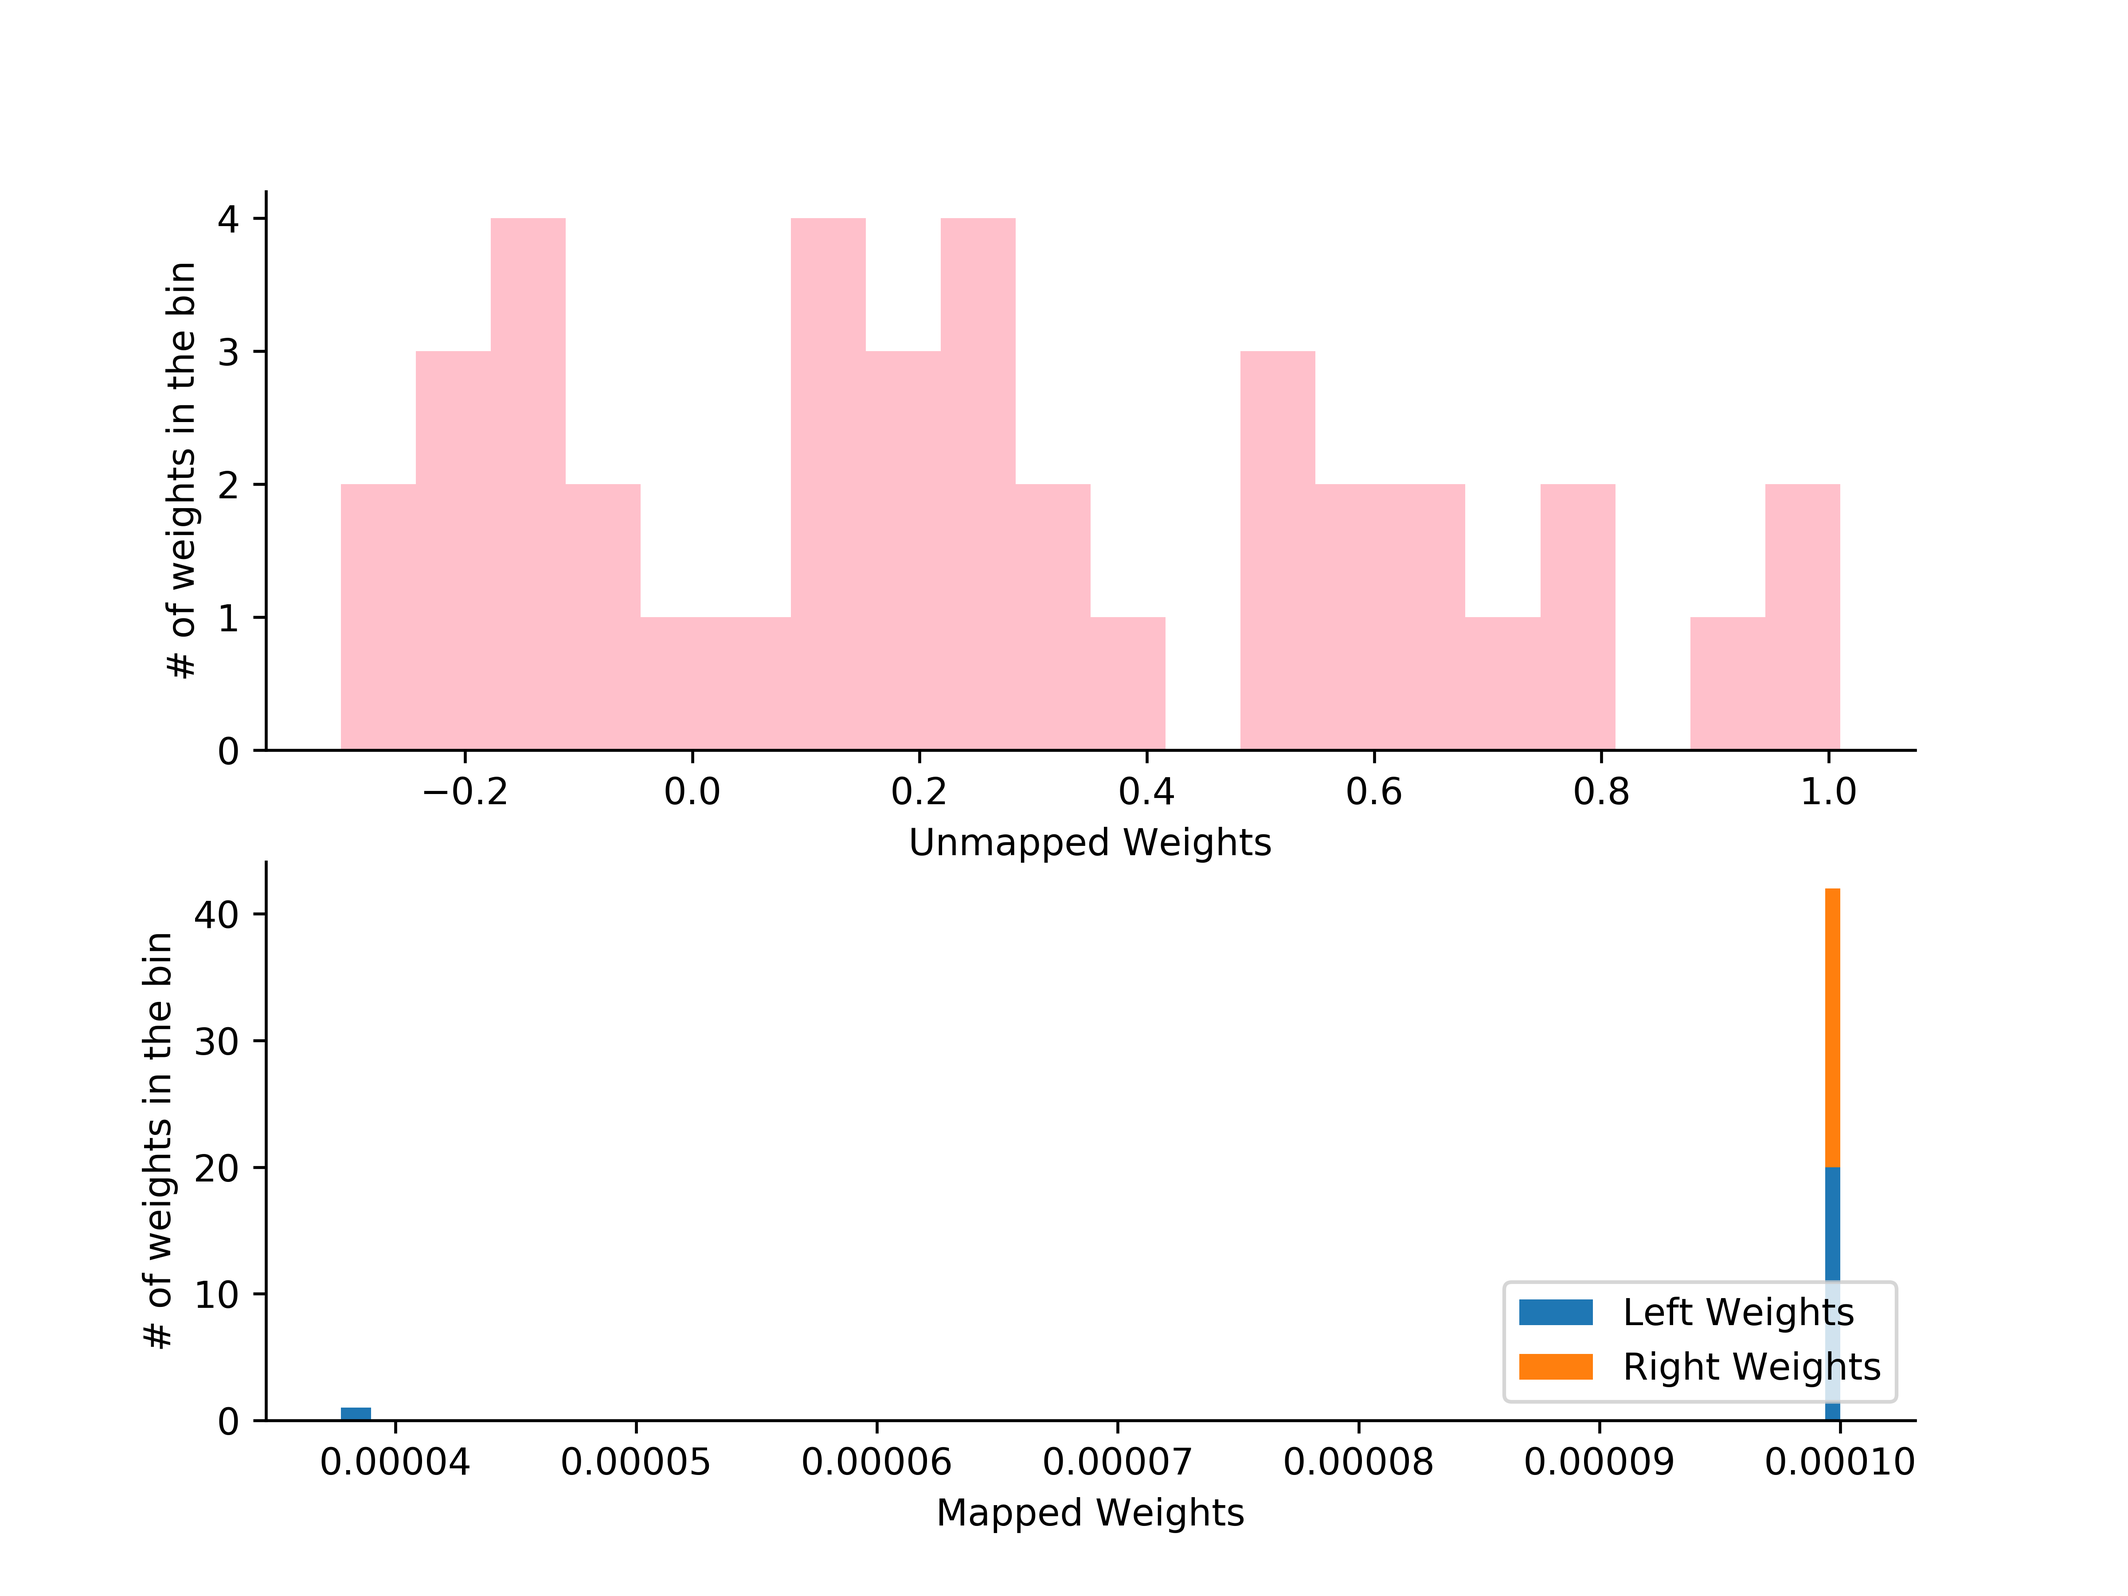
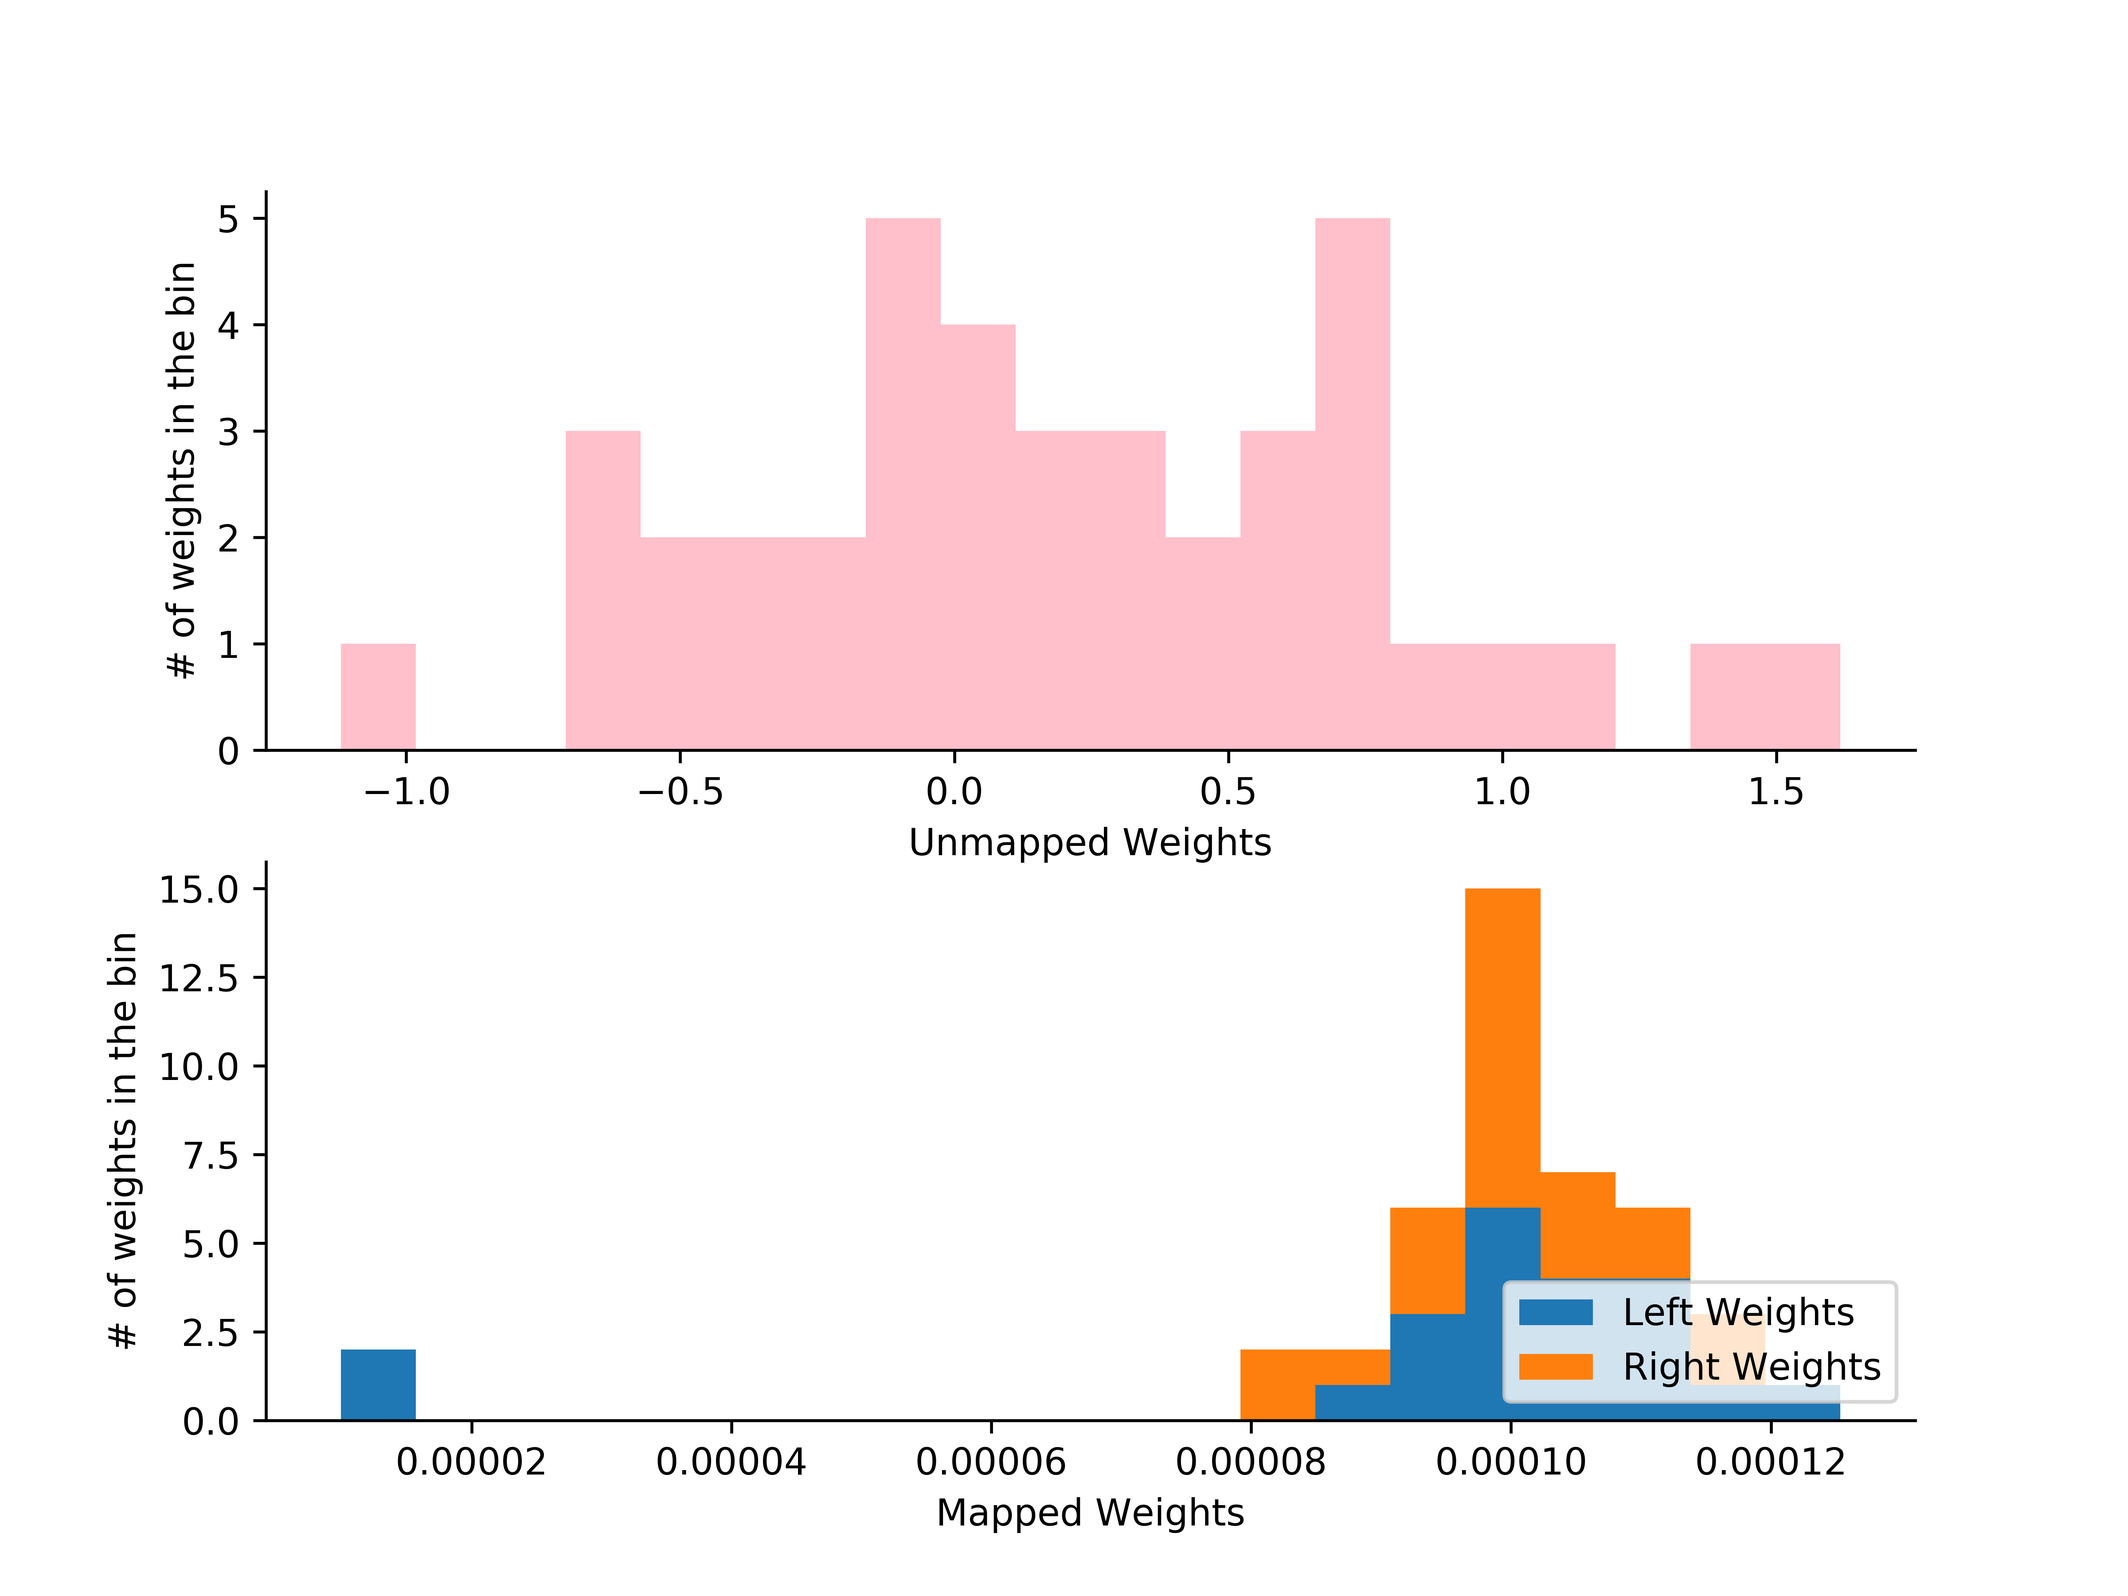
Updated Graphs

diff --git a/latent_ode_test.py b/latent_ode_test.py
@@ -1,0 +1,336 @@
+import os
+import argparse
+import logging
+import time
+import numpy as np
+import numpy.random as npr
+import matplotlib
+matplotlib.use('agg')
+import matplotlib.pyplot as plt
+import torch
+import torch.nn as nn
+import torch.optim as optim
+import torch.nn.functional as F
+
+
+parser = argparse.ArgumentParser()
+parser.add_argument('--adjoint', type=eval, default=False)
+parser.add_argument('--visualize', type=eval, default=True)
+parser.add_argument('--niters', type=int, default=2000)
+parser.add_argument('--lr', type=float, default=0.01)
+parser.add_argument('--gpu', type=int, default=0)
+parser.add_argument('--train_dir', type=str, default=None)
+args = parser.parse_args()
+
+if args.adjoint:
+    from torchdiffeq import odeint_adjoint as odeint
+else:
+    from torchdiffeq import odeint
+
+
+def generate_spiral2d(nspiral=1000,
+                      ntotal=500,
+                      nsample=100,
+                      start=0.,
+                      stop=1,  # approximately equal to 6pi
+                      noise_std=.1,
+                      a=0.,
+                      b=1.,
+                      savefig=True):
+    """Parametric formula for 2d spiral is `r = a + b * theta`.
+    Args:
+      nspiral: number of spirals, i.e. batch dimension
+      ntotal: total number of datapoints per spiral
+      nsample: number of sampled datapoints for model fitting per spiral
+      start: spiral starting theta value
+      stop: spiral ending theta value
+      noise_std: observation noise standard deviation
+      a, b: parameters of the Archimedean spiral
+      savefig: plot the ground truth for sanity check
+    Returns: 
+      Tuple where first element is true trajectory of size (nspiral, ntotal, 2),
+      second element is noisy observations of size (nspiral, nsample, 2),
+      third element is timestamps of size (ntotal,),
+      and fourth element is timestamps of size (nsample,)
+    """
+
+    # add 1 all timestamps to avoid division by 0
+    orig_ts = np.linspace(start, stop, num=ntotal)
+    samp_ts = orig_ts[:nsample]
+
+    # generate clock-wise and counter clock-wise spirals in observation space
+    # with two sets of time-invariant latent dynamics
+    zs_cw = stop + 1. - orig_ts
+    rs_cw = a + b * 50. / zs_cw
+    xs, ys = rs_cw * np.cos(zs_cw) - 5., rs_cw * np.sin(zs_cw)
+    orig_traj_cw = np.stack((xs, ys), axis=1)
+
+    zs_cc = orig_ts
+    rw_cc = a + b * zs_cc
+    xs, ys = rw_cc * np.cos(zs_cc) + 5., rw_cc * np.sin(zs_cc)
+    orig_traj_cc = np.stack((xs, ys), axis=1)
+
+    if savefig:
+        plt.figure()
+        plt.plot(orig_traj_cw[:, 0], orig_traj_cw[:, 1], label='clock')
+        plt.plot(orig_traj_cc[:, 0], orig_traj_cc[:, 1], label='counter clock')
+        plt.legend()
+        plt.savefig('./ground_truth.png', dpi=500)
+        print('Saved ground truth spiral at {}'.format('./ground_truth.png'))
+
+    # sample starting timestamps
+    orig_trajs = []
+    samp_trajs = []
+    for _ in range(nspiral):
+        # don't sample t0 very near the start or the end
+        t0_idx = npr.multinomial(
+            1, [1. / (ntotal - 2. * nsample)] * (ntotal - int(2 * nsample)))
+        t0_idx = np.argmax(t0_idx) + nsample
+
+        cc = bool(npr.rand() > .5)  # uniformly select rotation
+        orig_traj = orig_traj_cc if cc else orig_traj_cw
+        orig_trajs.append(orig_traj)
+
+        samp_traj = orig_traj[t0_idx:t0_idx + nsample, :].copy()
+        samp_traj += npr.randn(*samp_traj.shape) * noise_std
+        samp_trajs.append(samp_traj)
+
+    # batching for sample trajectories is good for RNN; batching for original
+    # trajectories only for ease of indexing
+    orig_trajs = np.stack(orig_trajs, axis=0)
+    samp_trajs = np.stack(samp_trajs, axis=0)
+
+    return orig_trajs, samp_trajs, orig_ts, samp_ts
+
+
+class LatentODEfunc(nn.Module):
+
+    def __init__(self, latent_dim=4, nhidden=20):
+        super(LatentODEfunc, self).__init__()
+        self.elu = nn.ELU(inplace=True)
+        self.fc1 = nn.Linear(latent_dim, nhidden)
+        self.fc2 = nn.Linear(nhidden, nhidden)
+        self.fc3 = nn.Linear(nhidden, latent_dim)
+        self.nfe = 0
+
+    def forward(self, t, x):
+        self.nfe += 1
+        out = self.fc1(x)
+        out = self.elu(out)
+        out = self.fc2(out)
+        out = self.elu(out)
+        out = self.fc3(out)
+        return out
+
+
+class RecognitionRNN(nn.Module):
+
+    def __init__(self, latent_dim=4, obs_dim=2, nhidden=25, nbatch=1):
+        super(RecognitionRNN, self).__init__()
+        self.nhidden = nhidden
+        self.nbatch = nbatch
+        self.i2h = nn.Linear(obs_dim + nhidden, nhidden)
+        self.h2o = nn.Linear(nhidden, latent_dim * 2)
+
+    def forward(self, x, h):
+        combined = torch.cat((x, h), dim=1)
+        h = torch.tanh(self.i2h(combined))
+        out = self.h2o(h)
+        return out, h
+
+    def initHidden(self):
+        return torch.zeros(self.nbatch, self.nhidden)
+
+
+class Decoder(nn.Module):
+
+    def __init__(self, latent_dim=4, obs_dim=2, nhidden=20):
+        super(Decoder, self).__init__()
+        self.relu = nn.ReLU(inplace=True)
+        self.fc1 = nn.Linear(latent_dim, nhidden)
+        self.fc2 = nn.Linear(nhidden, obs_dim)
+
+    def forward(self, z):
+        out = self.fc1(z)
+        out = self.relu(out)
+        out = self.fc2(out)
+        return out
+
+
+class RunningAverageMeter(object):
+    """Computes and stores the average and current value"""
+
+    def __init__(self, momentum=0.99):
+        self.momentum = momentum
+        self.reset()
+
+    def reset(self):
+        self.val = None
+        self.avg = 0
+
+    def update(self, val):
+        if self.val is None:
+            self.avg = val
+        else:
+            self.avg = self.avg * self.momentum + val * (1 - self.momentum)
+        self.val = val
+
+
+def log_normal_pdf(x, mean, logvar):
+    const = torch.from_numpy(np.array([2. * np.pi])).float().to(x.device)
+    const = torch.log(const)
+    return -.5 * (const + logvar + (x - mean) ** 2. / torch.exp(logvar))
+
+
+def normal_kl(mu1, lv1, mu2, lv2):
+    v1 = torch.exp(lv1)
+    v2 = torch.exp(lv2)
+    lstd1 = lv1 / 2.
+    lstd2 = lv2 / 2.
+
+    kl = lstd2 - lstd1 + ((v1 + (mu1 - mu2) ** 2.) / (2. * v2)) - .5
+    return kl
+
+
+if __name__ == '__main__':
+    latent_dim = 4
+    nhidden = 20
+    rnn_nhidden = 25
+    obs_dim = 2
+    nspiral = 1000
+    start = 0.
+    stop = 6 * np.pi
+    noise_std = .3
+    a = 0.
+    b = .3
+    ntotal = 1000
+    nsample = 100
+    device = torch.device('cuda:' + str(args.gpu)
+                          if torch.cuda.is_available() else 'cpu')
+
+    # generate toy spiral data
+    orig_trajs, samp_trajs, orig_ts, samp_ts = generate_spiral2d(
+        nspiral=nspiral,
+        start=start,
+        stop=stop,
+        noise_std=noise_std,
+        a=a, b=b
+    )
+    orig_trajs = torch.from_numpy(orig_trajs).float().to(device)
+    samp_trajs = torch.from_numpy(samp_trajs).float().to(device)
+    samp_ts = torch.from_numpy(samp_ts).float().to(device)
+
+    # model
+    func = LatentODEfunc(latent_dim, nhidden).to(device)
+    rec = RecognitionRNN(latent_dim, obs_dim, rnn_nhidden, nspiral).to(device)
+    dec = Decoder(latent_dim, obs_dim, nhidden).to(device)
+    params = (list(func.parameters()) + list(dec.parameters()) + list(rec.parameters()))
+    optimizer = optim.Adam(params, lr=args.lr)
+    loss_meter = RunningAverageMeter()
+
+    if args.train_dir is not None:
+        if not os.path.exists(args.train_dir):
+            os.makedirs(args.train_dir)
+        ckpt_path = os.path.join(args.train_dir, 'ckpt.pth')
+        if os.path.exists(ckpt_path):
+            checkpoint = torch.load(ckpt_path)
+            func.load_state_dict(checkpoint['func_state_dict'])
+            rec.load_state_dict(checkpoint['rec_state_dict'])
+            dec.load_state_dict(checkpoint['dec_state_dict'])
+            optimizer.load_state_dict(checkpoint['optimizer_state_dict'])
+            orig_trajs = checkpoint['orig_trajs']
+            samp_trajs = checkpoint['samp_trajs']
+            orig_ts = checkpoint['orig_ts']
+            samp_ts = checkpoint['samp_ts']
+            print('Loaded ckpt from {}'.format(ckpt_path))
+
+    try:
+        for itr in range(1, args.niters + 1):
+            optimizer.zero_grad()
+            # backward in time to infer q(z_0)
+            h = rec.initHidden().to(device)
+            for t in reversed(range(samp_trajs.size(1))):
+                obs = samp_trajs[:, t, :]
+                out, h = rec.forward(obs, h)
+            qz0_mean, qz0_logvar = out[:, :latent_dim], out[:, latent_dim:]
+            epsilon = torch.randn(qz0_mean.size()).to(device)
+            z0 = epsilon * torch.exp(.5 * qz0_logvar) + qz0_mean
+
+            # forward in time and solve ode for reconstructions
+            pred_z = odeint(func, z0, samp_ts).permute(1, 0, 2)
+            pred_x = dec(pred_z)
+
+            # compute loss
+            noise_std_ = torch.zeros(pred_x.size()).to(device) + noise_std
+            noise_logvar = 2. * torch.log(noise_std_).to(device)
+            logpx = log_normal_pdf(
+                samp_trajs, pred_x, noise_logvar).sum(-1).sum(-1)
+            pz0_mean = pz0_logvar = torch.zeros(z0.size()).to(device)
+            analytic_kl = normal_kl(qz0_mean, qz0_logvar,
+                                    pz0_mean, pz0_logvar).sum(-1)
+            loss = torch.mean(-logpx + analytic_kl, dim=0)
+            loss.backward()
+            optimizer.step()
+            loss_meter.update(loss.item())
+
+            print('Iter: {}, running avg elbo: {:.4f}'.format(itr, -loss_meter.avg))
+
+    except KeyboardInterrupt:
+        if args.train_dir is not None:
+            ckpt_path = os.path.join(args.train_dir, 'ckpt.pth')
+            torch.save({
+                'func_state_dict': func.state_dict(),
+                'rec_state_dict': rec.state_dict(),
+                'dec_state_dict': dec.state_dict(),
+                'optimizer_state_dict': optimizer.state_dict(),
+                'orig_trajs': orig_trajs,
+                'samp_trajs': samp_trajs,
+                'orig_ts': orig_ts,
+                'samp_ts': samp_ts,
+            }, ckpt_path)
+            print('Stored ckpt at {}'.format(ckpt_path))
+    print('Training complete after {} iters.'.format(itr))
+
+    if args.visualize:
+        with torch.no_grad():
+            # sample from trajectorys' approx. posterior
+            h = rec.initHidden().to(device)
+            for t in reversed(range(samp_trajs.size(1))):
+                obs = samp_trajs[:, t, :]
+                out, h = rec.forward(obs, h)
+            qz0_mean, qz0_logvar = out[:, :latent_dim], out[:, latent_dim:]
+            epsilon = torch.randn(qz0_mean.size()).to(device)
+            z0 = epsilon * torch.exp(.5 * qz0_logvar) + qz0_mean
+            orig_ts = torch.from_numpy(orig_ts).float().to(device)
+
+            # take first trajectory for visualization
+            z0 = z0[0]
+
+            ts_pos = np.linspace(0., 2. * np.pi, num=2000)
+            ts_neg = np.linspace(-np.pi, 0., num=2000)[::-1].copy()
+            ts_pos = torch.from_numpy(ts_pos).float().to(device)
+            ts_neg = torch.from_numpy(ts_neg).float().to(device)
+
+            zs_pos = odeint(func, z0, ts_pos)
+            zs_neg = odeint(func, z0, ts_neg)
+
+            xs_pos = dec(zs_pos)
+            xs_neg = torch.flip(dec(zs_neg), dims=[0])
+
+        xs_pos = xs_pos.cpu().numpy()
+        xs_neg = xs_neg.cpu().numpy()
+        orig_traj = orig_trajs[0].cpu().numpy()
+        samp_traj = samp_trajs[0].cpu().numpy()
+
+        plt.figure()
+        plt.plot(orig_traj[:, 0], orig_traj[:, 1],
+                 'g', label='true trajectory')
+        plt.plot(xs_pos[:, 0], xs_pos[:, 1], 'r',
+                 label='learned trajectory (t>0)')
+        plt.plot(xs_neg[:, 0], xs_neg[:, 1], 'c',
+                 label='learned trajectory (t<0)')
+        plt.scatter(samp_traj[:, 0], samp_traj[
+                    :, 1], label='sampled data', s=3)
+        plt.legend()
+        plt.savefig('./vis.png', dpi=500)
+        print('Saved visualization figure at {}'.format('./vis.png'))

diff --git a/fig5.py b/fig5.py
@@ -51,8 +51,12 @@ device_params = {"Vdd": 1.8,
                  "r_cmos_transistor": 20,
                  "p_stuck_on": 0.01,
                  "p_stuck_off": 0.01,
-                 "method": "viability",
-                 "viability": 0.2,
+                 "method": "linear",
+                 "r_on_mean": 1e4,
+                 "r_on_stddev": 1e3,
+                 "r_off_mean": 1e5,
+                 "r_off_stddev": 1e4,
+                 "device_resolution": 4,
 }
 
 # MAKE DATA
@@ -160,7 +164,7 @@ for i in range(1):
     with torch.no_grad():
         left_mapped_weights = torch.cat([model.cb.W[m[0]:m[0]+m[2], m[1]:m[1]+m[3]:2].reshape(-1) for m in model.cb.mapped], axis=0).numpy().reshape(-1, 1)
         right_mapped_weights = torch.cat([model.cb.W[m[0]+1:m[0]+m[2]+1, m[1]+1:m[1]+m[3]+1:2].reshape(-1) for m in model.cb.mapped], axis=0).numpy().reshape(-1,1)
-        ax5.hist(np.concatenate((left_mapped_weights, right_mapped_weights), axis=1), stacked=True, bins=100)
+        ax5.hist(np.concatenate((left_mapped_weights, right_mapped_weights), axis=1), stacked=True, bins=20)
 
     weights = [model.cb.W[coord[0]:coord[0]+coord[2], coord[1]*2:coord[1]*2+coord[3]*2] for coord in model.cb.mapped] + [model.cb.W]
     vmax = max(torch.max(weight) for weight in weights)

diff --git a/networks/latent_ode/latent_ode.py b/networks/latent_ode/latent_ode.py
@@ -1,0 +1,21 @@
+
+import torch
+import torch.nn as nn
+
+from networks.ode_rnn.ode_rnn import ODE_RNN as ODE_RNN
+
+from networks.latent_ode.latent_ode_net import Latent_ODE_Net as ODE_Func
+from networks.latent_ode.latent_ode_decoder import Latent_ODE_Decoder as Decoder
+
+from utils.linear import Linear
+from crossbar.crossbar import crossbar
+from utils.observer import Observer
+
+class Latent_ODE(nn.Module):
+
+    def __init__(self, input_size, hidden_layer_size, output_size, device_params, time_steps):
+
+        super(Latent_ODE, self).__init__()
+
+        self.ode_rnn = ODE_RNN(input_size, hidden_layer_size, output_size, device_params, time_steps)
+        self.decoder = Decoder()
